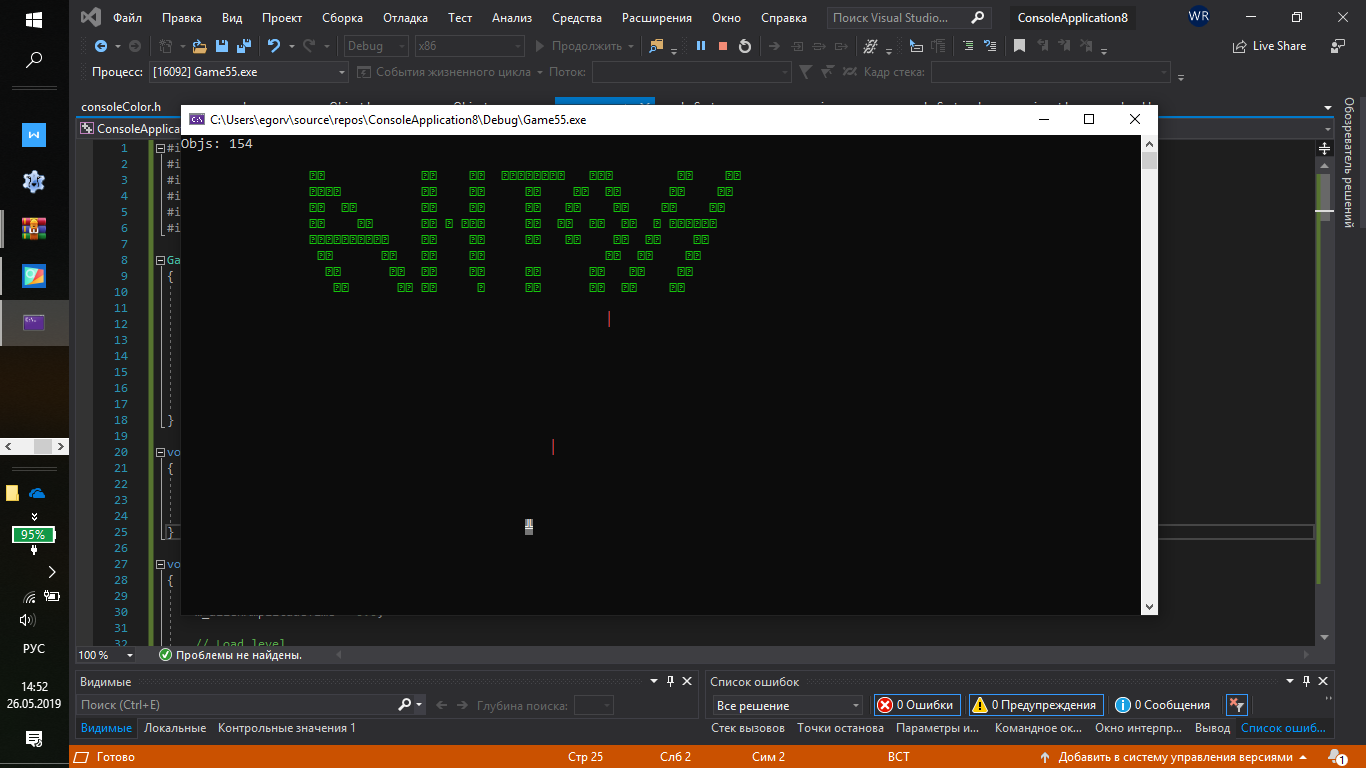
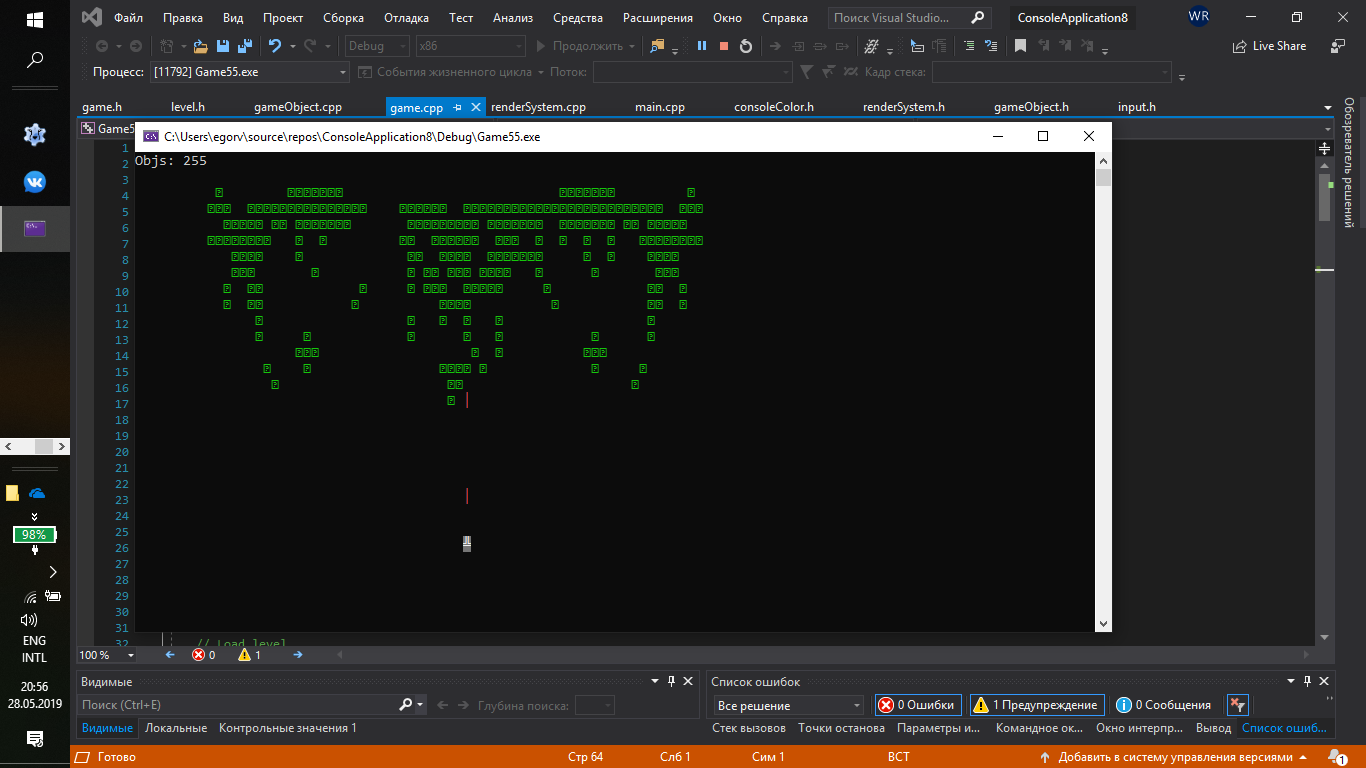
Final

diff --git a/level.h b/level.h
@@ -6,12 +6,12 @@ const int levelRows = screenRows;
 const int levelColumns = screenColumns;
 
 const float shipSpeed = 35.0;
-const float shipFireCooldown = 0.2;
+const float shipFireCooldown = 0.15;
 
 const float bulletSpeed = 40.0;
 
 const float alienAmplitude = 7.0;
-const float alienSpeed = 0.23;
+const float alienSpeed = 0.25;
 
 
 const unsigned char	CellSymbol_Ship = 'S';
@@ -20,20 +20,20 @@ const unsigned char	CellSymbol_Alien = 'X';
 
 const unsigned char levelData0[levelRows][levelColumns + 1] =
 {
-	"                                                                                ",
-	"        XX            XX    XX  XXXXXXXX   XXX        XX    XX                  ",
-	"        XXXX          XX    XX     XX    XX  XX      XX    XX                   ",
-	"        XX  XX        XX    XX     XX   XX    XX    XX    XX                    ", 
-	"        XX    XX      XXXXXXXX     XX  XX  XX  XX  XXXXXXXX                     ",
-	"        XXXXXXXXXX    XX    XX     XX   XX    XX  XX    XX                      ", 
-	"         XX      XX   XX    XX     XX    XX  XX  XX    XX                       ",
-	"          XX      XX  XX    XX     XX     XXXX  XX    XX                        ",
-	"           XX      XX XX    XX     XX      XX  XX    XX                         ", 
-	"                                                                                ",
-	"                                                                                ",
-	"                                                                                ",
-	"                                                                                ",
-	"                                                                                ",
+	"          X        XXXXXXX                           XXXXXXX         X          ",
+	"         XXX  XXXXXXXXXXXXXXXXXXXXXXXXX  XXXXXXXXXXXXXXXXXXXXXXXXX  XXX         ",
+	"           XXXXX XX XXXXXXX  XXXXXXXXXXXXXXXXXXXXXX  XXXXXXX XX XXXXX           ",
+	"         XXXXXXXX   X  X  X  X  XXX  XXXXXX  XXX  X  X  X  X   XXXXXXXX         ",
+	"            XXXX    X  X     XXXXXXX  XXXX  XXXXXXX     X  X    XXXX            ",
+	"            XXX       X      X   XXXXX XXX XXXX   X      X       XXX            ",
+	"           X  XX            X     XXXXX  XXXXX     X            XX  X           ",
+	"           X  XX           X       X  XXXX  X       X           XX  X           ",
+	"               X                  X   X  X   X                  X               ",
+	"               X     X            X   X  X   X           X      X               ",
+	"                    XXX           X  X    X  X          XXX                     ",
+	"                X    X              X XXXX X             X     X                ",
+	"                 X                     XX                     X                 ",
+	"                                       XX                                       ",
 	"                                                                                ",
 	"                                                                                ",
 	"                                                                                ",

diff --git a/game.cpp b/game.cpp
@@ -4,7 +4,7 @@
 #include <cmath>
 #include "level.h"
 #include "input.h"
-
+///
 Game::Game()
 {
 	m_isGameActive = true;
@@ -60,7 +60,7 @@ void Game::initialize()
 					GetRenderCellSymbolColor(cellSymbol),
 					GetRenderCellSymbolBackgroundColor(cellSymbol));
 
-				alien->setXSpeed(alienAmplitude * cos(m_alienAmplitudeTime));
+				alien->setXSpeed(alienAmplitude);
 				alien->setYSpeed(alienSpeed);
 				break;
 			}
